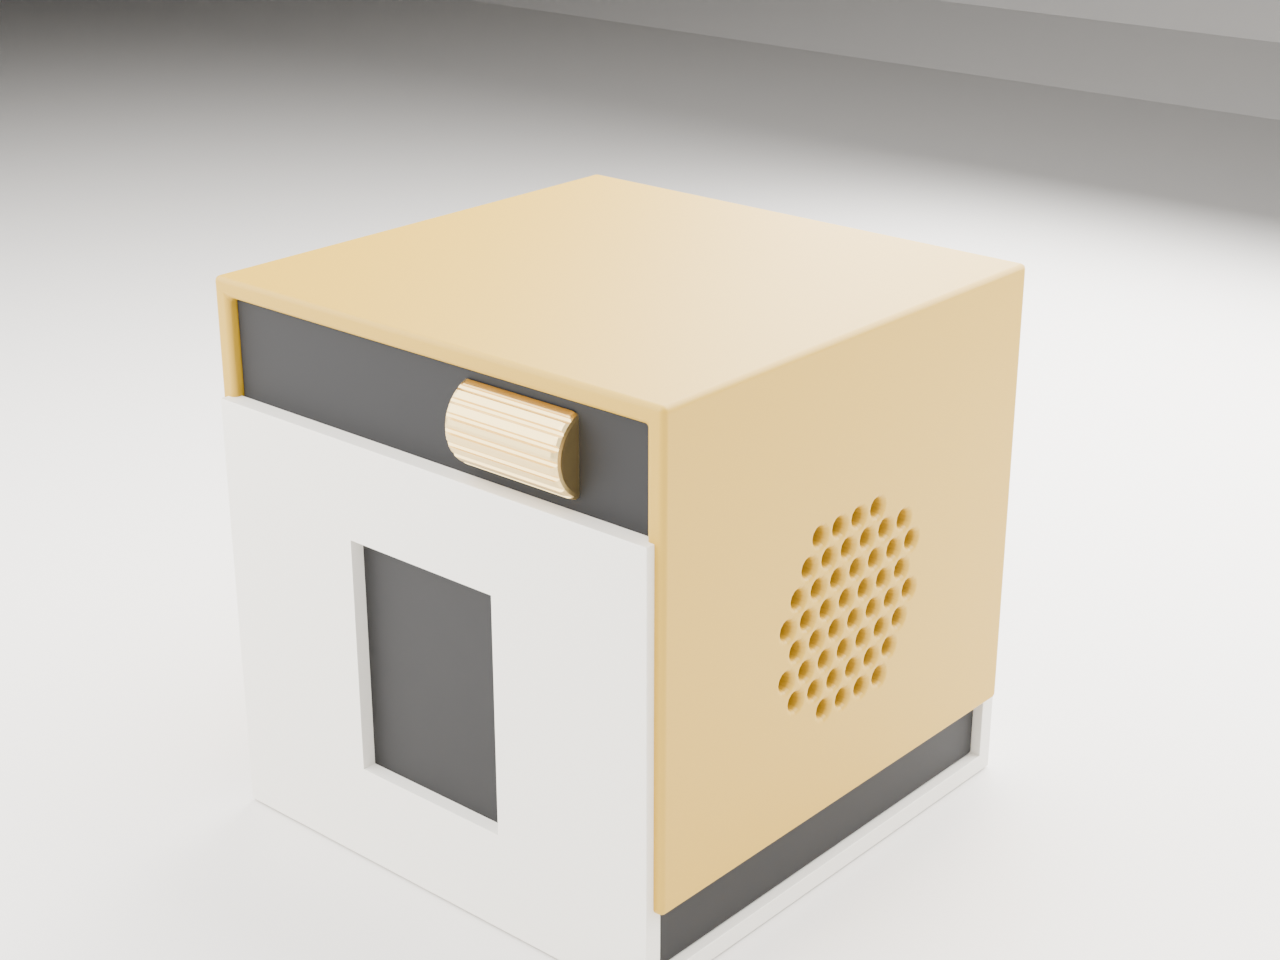
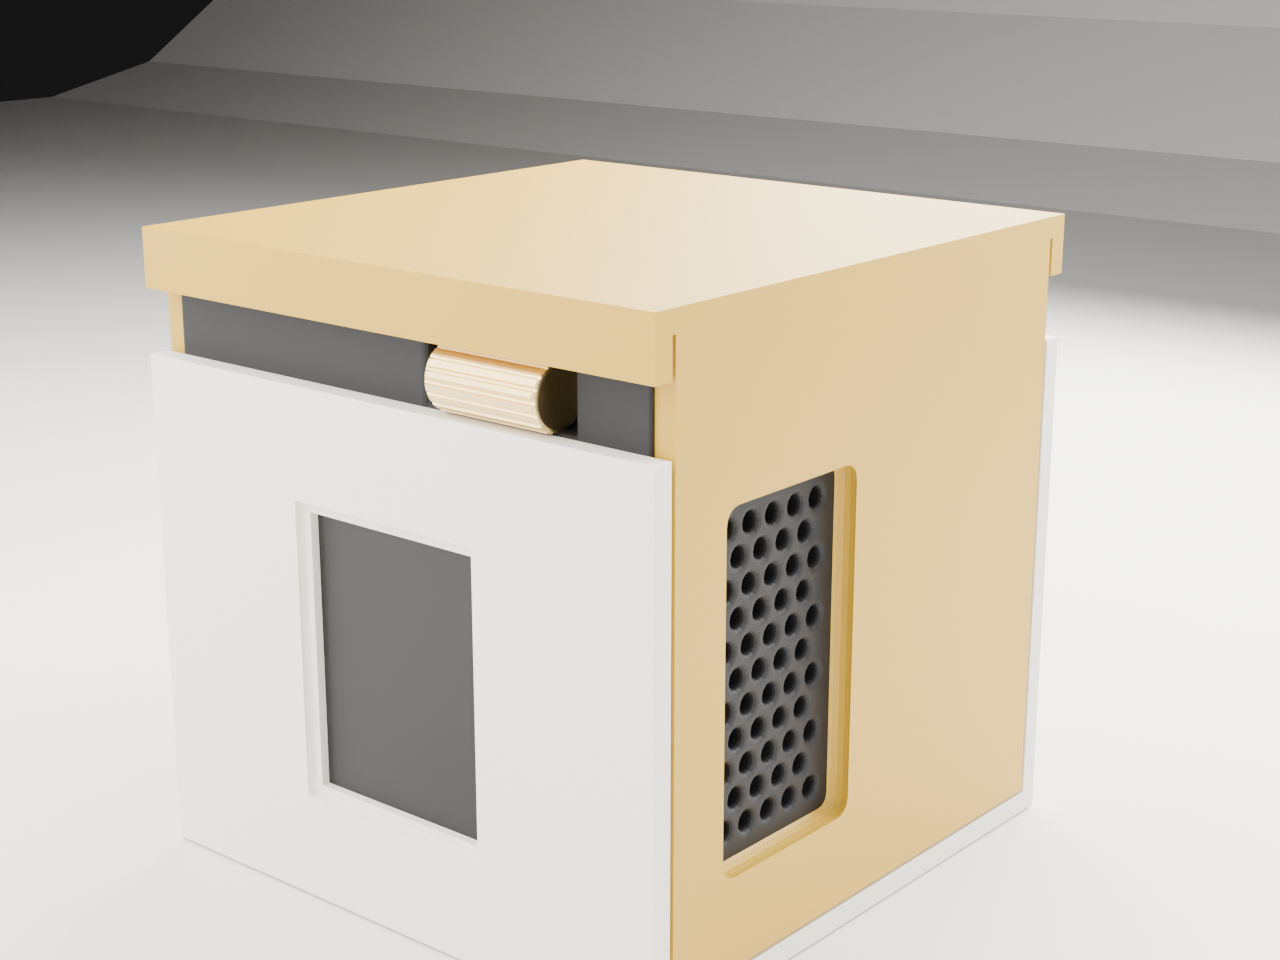
Wrap cube v3: flush shared envelope, lid lip + slim channel, black grille zone
Fixes from self-critique vs the Sony reference: both U-shells now share one
outer envelope (0.8mm shadow seams, no steps), the mustard lid folds down over
a 12mm shaded channel with a thin mostly-buried thumbwheel in a core pocket,
the invented bottom reveal is gone, the grille is a rounded black window
revealing perforated core, and the screen has a stepped aperture.

diff --git a/case/wrap_cube.py b/case/wrap_cube.py
@@ -1,11 +1,12 @@
-# wrap_cube.py — World Radio in the Sony TR-1825 cube language:
-# a black core cube with two interlocking wrap shells (mustard: top+back,
-# cream: front+bottom). The black core shows through as recessed channels —
-# the top-front channel carries a brass thumbwheel tuner, the side faces are
-# framed black panels, the right one perforated as the speaker grille.
+# wrap_cube.py — World Radio in the Sony TR-1825 cube language, v3.
 #
-# All geometry is specified in ABSOLUTE mm coordinates via boxmm(x0,x1,y0,y1,z0,z1)
-# — no center/offset arithmetic.
+# Two thin U-shells on a SHARED outer envelope (every face flush, parting lines
+# are 0.8mm shadow seams), wrapping a black core:
+#   cream U:   front -> bottom -> back
+#   mustard U: left  -> top    -> right, with a fold-down front/back lip
+# Black does the work: a slim shaded channel under the front lip carries a
+# mostly-buried brass thumbwheel; a rounded window in the mustard right leg
+# reveals a black perforated grille zone on the core.
 #
 #   /Applications/Blender.app/Contents/MacOS/Blender --background --python wrap_cube.py
 
@@ -17,12 +18,12 @@ OUT_DIR = "/Users/stefanlenoach/Code/world-radio/case"
 S = 0.001
 
 # ---- master dimensions (mm, absolute; origin at core center) ----
-CORE = 55.0      # core half-edge: core spans [-55, 55] in x/y/z
-T = 4.0          # shell thickness (thin, like bent plastic)
-OUT = CORE + T   # outer plane of a shell leg (59)
-CREAM_W = 57.0   # cream U half-width in x (slightly proud of core sides)
-LEG_TOP = 34.0   # top edge of the cream front/back legs
-MLEG_BOT = -40.0 # bottom edge of the mustard side legs (black reveal below)
+CORE = 55.0      # core half-edge
+T = 4.0          # shell thickness
+OUT = CORE + T   # shared outer envelope: everything's outer face lands on ±59
+SEAM = 0.8       # shadow gap where shells butt
+LEG_TOP = 36.0   # cream front/back legs rise to here
+LIP_BOT = 48.0   # mustard fold-down lip reaches down to here (channel 36..48)
 
 
 def mm(v):
@@ -39,7 +40,6 @@ def clean_scene():
 
 
 def boxmm(name, x0, x1, y0, y1, z0, z1):
-    """Box from absolute mm bounds."""
     cx, cy, cz = (x0 + x1) / 2, (y0 + y1) / 2, (z0 + z1) / 2
     bpy.ops.mesh.primitive_cube_add(size=1, location=(mm(cx), mm(cy), mm(cz)))
     ob = bpy.context.object
@@ -77,7 +77,7 @@ def union(target, other):
     bpy.data.objects.remove(other, do_unlink=True)
 
 
-def bevel(ob, width_mm, segments=4, angle_limit=60):
+def bevel(ob, width_mm, segments=6, angle_limit=60):
     mod = ob.modifiers.new(name="bevel", type="BEVEL")
     mod.width = mm(width_mm)
     mod.segments = segments
@@ -102,81 +102,99 @@ def assign(ob, mat):
     ob.data.materials.append(mat)
 
 
-def build():
-    clean_scene()
-
-    black = material("Core", (0.004, 0.004, 0.005), rough=0.62)
-    cream = material("Cream", (0.902, 0.868, 0.792), rough=0.5)
-    mustard = material("Mustard", (0.55, 0.33, 0.02), rough=0.45)
-    dark = material("Dark", (0.004, 0.004, 0.005), rough=0.55)
-    brass = material("Brass", (0.85, 0.64, 0.29), rough=0.28, metallic=1.0)
-
-    # ---- black core cube ----
-    core = boxmm("Core", -CORE, CORE, -CORE, CORE, -CORE, CORE)
-    bevel(core, 1.0)
-    assign(core, black)
-
-    # ---- cream U: front -> bottom -> back (3 faces, rounded bends) ----
-    frontleg = boxmm("CreamShell", -CREAM_W, CREAM_W, -OUT, -CORE, -OUT, LEG_TOP)
-    bottomleg = boxmm("cb", -CREAM_W, CREAM_W, -OUT, OUT, -OUT, -CORE)
-    backleg = boxmm("cb2", -CREAM_W, CREAM_W, CORE, OUT, -OUT, LEG_TOP)
-    union(frontleg, bottomleg)
-    union(frontleg, backleg)
-    bevel(frontleg, 2.0, segments=6)
-    assign(frontleg, cream)
-    front = frontleg
-
-    # screen window through the cream front leg; dark glass against the core
-    sw2, sh2 = 38.5 / 2, 51.0 / 2
-    scz = -12.0
-    win = boxmm("win", -sw2, sw2, -OUT - 2, -CORE + 1, scz - sh2, scz + sh2)
-    boolean(front, win)
-    glass = boxmm("Screen", -sw2 - 1.5, sw2 + 1.5, -CORE - 0.9, -CORE + 0.5,
-                  scz - sh2 - 1.5, scz + sh2 + 1.5)
-    assign(glass, dark)
-
-    # ---- mustard U: left -> top -> right (3 faces, rounded bends) ----
-    topleg = boxmm("MustardShell", -OUT, OUT, -CREAM_W, CREAM_W, CORE, OUT)
-    leftleg = boxmm("ml", -OUT, -CORE, -CREAM_W, CREAM_W, MLEG_BOT, CORE)
-    rightleg = boxmm("mr", CORE, OUT, -CREAM_W, CREAM_W, MLEG_BOT, CORE)
-    union(topleg, leftleg)
-    union(topleg, rightleg)
-
-    # speaker grille: perforate the mustard right leg (black core shows through)
-    gr, pitch = 24.0, 6.2
+def hex_holes(region_y0, region_y1, region_z0, region_z1, hole_r, pitch, x_center, margin=4.0):
+    """Joined hex-packed cylinder cutters (axis X) filling a rectangular region."""
     cutters = []
-    row, v = 0, -gr
-    while v <= gr:
+    row = 0
+    z = region_z0 + margin
+    while z <= region_z1 - margin:
         yoff = (pitch / 2) if (row % 2) else 0.0
-        u = -gr + yoff
-        while u <= gr:
-            if math.hypot(u, v) <= gr - 1.5:
-                c = add_cyl("h", 1.9, 14, loc=(mm(CORE + T / 2), mm(u), mm(v + 2)),
-                            rot=(0, math.radians(90), 0), verts=12)
-                cutters.append(c)
-            u += pitch
-        v += pitch * 0.866
+        y = region_y0 + margin + yoff
+        while y <= region_y1 - margin:
+            c = add_cyl("h", hole_r, 10, loc=(mm(x_center), mm(y), mm(z)),
+                        rot=(0, math.radians(90), 0), verts=12)
+            cutters.append(c)
+            y += pitch
+        z += pitch * 0.866
         row += 1
     bpy.ops.object.select_all(action="DESELECT")
     for c in cutters:
         c.select_set(True)
     bpy.context.view_layer.objects.active = cutters[0]
     bpy.ops.object.join()
-    boolean(topleg, bpy.context.object)
+    return bpy.context.object
 
-    bevel(topleg, 2.0, segments=6)
-    assign(topleg, mustard)
 
-    # ---- brass thumbwheel in the top-front black channel [FRONT_TOP, TOP_UNDER] ----
-    kz = (LEG_TOP + CORE) / 2
-    wheel = add_cyl("Wheel", 9.0, 28.0, loc=(mm(24), mm(-CORE + 3), mm(kz)),
+def build():
+    clean_scene()
+
+    black = material("Core", (0.004, 0.004, 0.005), rough=0.62)
+    cream = material("Cream", (0.902, 0.868, 0.792), rough=0.5)
+    mustard = material("Mustard", (0.55, 0.33, 0.02), rough=0.45)
+    dark = material("Dark", (0.003, 0.003, 0.004), rough=0.45)
+    brass = material("Brass", (0.85, 0.64, 0.29), rough=0.28, metallic=1.0)
+
+    # ---- black core ----
+    core = boxmm("Core", -CORE, CORE, -CORE, CORE, -CORE, CORE)
+
+    # grille perforation on the core's right-front zone (revealed by the shell window)
+    holes = hex_holes(-40.0, -8.0, -36.0, 24.0, 1.8, 6.0, CORE - 2.0)
+    boolean(core, holes)
+    # wheel pocket in the core's top-front edge
+    pocket = boxmm("pocket", 8.0, 40.0, -CORE - 1, -CORE + 5, LEG_TOP + 0.5, LIP_BOT - 0.5)
+    boolean(core, pocket)
+    bevel(core, 1.0, segments=3)
+    assign(core, black)
+
+    # ---- cream U: front / bottom / back — outer faces all on the envelope ----
+    cfront = boxmm("CreamShell", -OUT, OUT, -OUT, -CORE, -OUT, LEG_TOP)
+    cbot = boxmm("cb", -OUT, OUT, -OUT, OUT, -OUT, -CORE)
+    cback = boxmm("cb2", -OUT, OUT, CORE, OUT, -OUT, LEG_TOP)
+    union(cfront, cbot)
+    union(cfront, cback)
+
+    # screen aperture: shallow step recess + through window, glass on the core
+    sw2, sh2 = 38.5 / 2, 51.0 / 2
+    scz = -12.0
+    step = boxmm("step", -sw2 - 2, sw2 + 2, -OUT - 1, -OUT + 1.6, scz - sh2 - 2, scz + sh2 + 2)
+    boolean(cfront, step)
+    win = boxmm("win", -sw2, sw2, -OUT - 2, -CORE + 1, scz - sh2, scz + sh2)
+    boolean(cfront, win)
+    bevel(cfront, 2.5)
+    assign(cfront, cream)
+    glass = boxmm("Screen", -sw2 - 1.5, sw2 + 1.5, -CORE - 0.7, -CORE + 0.5,
+                  scz - sh2 - 1.5, scz + sh2 + 1.5)
+    assign(glass, dark)
+
+    # ---- mustard U: left / top / right + fold-down lips, flush on the envelope ----
+    mtop = boxmm("MustardShell", -OUT, OUT, -OUT, OUT, CORE, OUT)
+    lip_f = boxmm("lipf", -OUT, OUT, -OUT, -CORE, LIP_BOT, CORE)
+    lip_b = boxmm("lipb", -OUT, OUT, CORE, OUT, LIP_BOT, CORE)
+    mleft = boxmm("ml", -OUT, -CORE, -CORE + SEAM, CORE - SEAM, -CORE + SEAM, CORE)
+    mright = boxmm("mr", CORE, OUT, -CORE + SEAM, CORE - SEAM, -CORE + SEAM, CORE)
+    union(mtop, lip_f)
+    union(mtop, lip_b)
+    union(mtop, mleft)
+    union(mtop, mright)
+
+    # rounded window in the right leg exposing the black grille zone
+    gwin = boxmm("gwin", CORE - 1, OUT + 2, -42.0, -6.0, -38.0, 26.0)
+    bevel(gwin, 5.0, segments=5)
+    boolean(mtop, gwin)
+
+    bevel(mtop, 2.5)
+    assign(mtop, mustard)
+
+    # ---- thin brass thumbwheel, mostly buried in the channel ----
+    kz = (LEG_TOP + LIP_BOT) / 2  # 42
+    wheel = add_cyl("Wheel", 6.0, 24.0, loc=(mm(24), mm(-CORE + 1.0), mm(kz)),
                     rot=(0, math.radians(90), 0), verts=48)
-    bevel(wheel, 1.3, segments=3, angle_limit=40)
+    bevel(wheel, 0.8, segments=3, angle_limit=40)
     assign(wheel, brass)
-    for i in range(20):
-        a = i * (2 * math.pi / 20)
-        g = add_cyl("g", 0.7, 34,
-                    loc=(mm(24), mm(-CORE + 3) + math.cos(a) * mm(9), mm(kz) + math.sin(a) * mm(9)),
+    for i in range(18):
+        a = i * (2 * math.pi / 18)
+        g = add_cyl("g", 0.5, 30,
+                    loc=(mm(24), mm(-CORE + 1.0) + math.cos(a) * mm(6), mm(kz) + math.sin(a) * mm(6)),
                     rot=(0, math.radians(90), 0), verts=8)
         boolean(wheel, g)
 
@@ -194,10 +212,11 @@ def build():
     bg.data.update()
     assign(bg, material("Backdrop", (0.82, 0.79, 0.75), rough=0.9))
 
-    bpy.ops.object.camera_add(location=(mm(265), mm(-300), mm(175)),
-                              rotation=(math.radians(68), 0, math.radians(41)))
+    # lower, more eye-level camera than before
+    bpy.ops.object.camera_add(location=(mm(250), mm(-290), mm(120)),
+                              rotation=(math.radians(74), 0, math.radians(40)))
     cam = bpy.context.object
-    cam.data.lens = 58
+    cam.data.lens = 60
     bpy.context.scene.camera = cam
 
     def light(name, loc, energy, size, rot):
